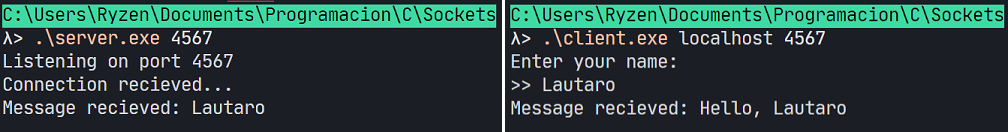
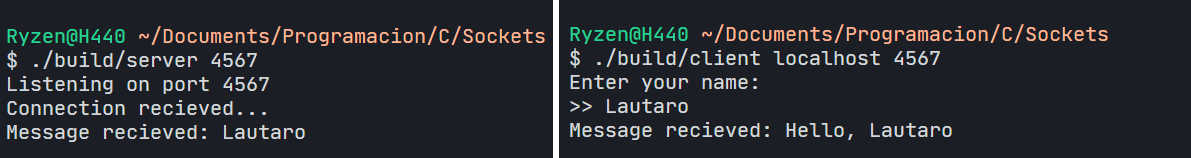
Updated for 'cygwin' setup

diff --git a/README.md b/README.md
@@ -10,25 +10,25 @@ Create sockets, send and receive data.
 - GNU Make
 - GNU GCC
 
-```powershell
-PS> make [all | client | server | clean]
+```bash
+$ make [all | client | server | clean]
 ```
 > Note: `$ make` defaults to `$ make all`
 
 ## How to run
 
 ### Client
-```powershell
-PS> .\build\client.exe <hostname> <port>
+```bash
+$ ./build/client <hostname> <port>
 ```
 
 ### Server
-```powershell
-PS> .\build\server.exe <port>
+```bash
+$ ./build/server <port>
 ```
 
 ---
 
 ### Notes
 
-This project was built using `cygwin` on **Windows 10**. Linux users should check the `make` file in order to set the appropriate `include` path, file paths and appropriate flags.
+This project was built using `cygwin` on **Windows 10**, but it should work on Linux as long as you fulfill the requirements.
